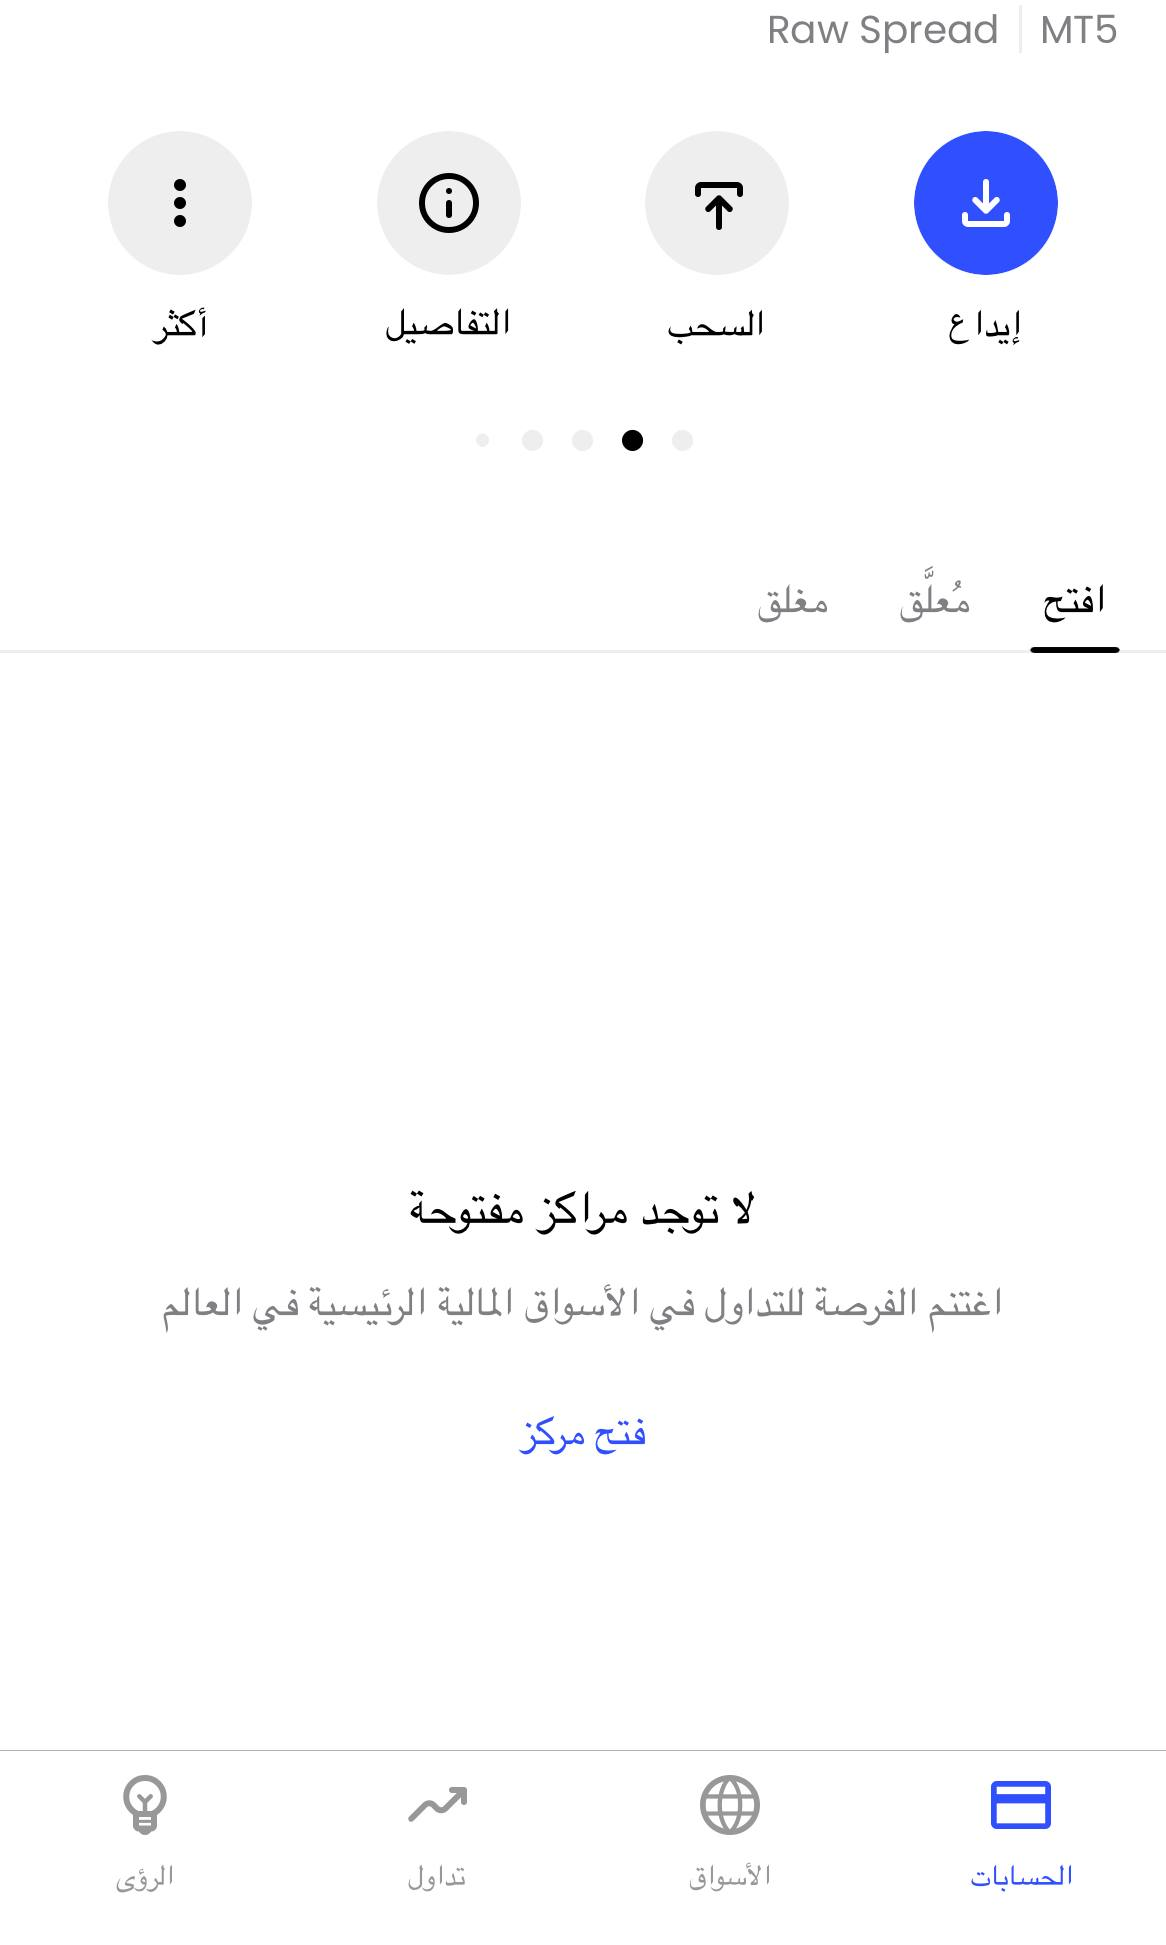
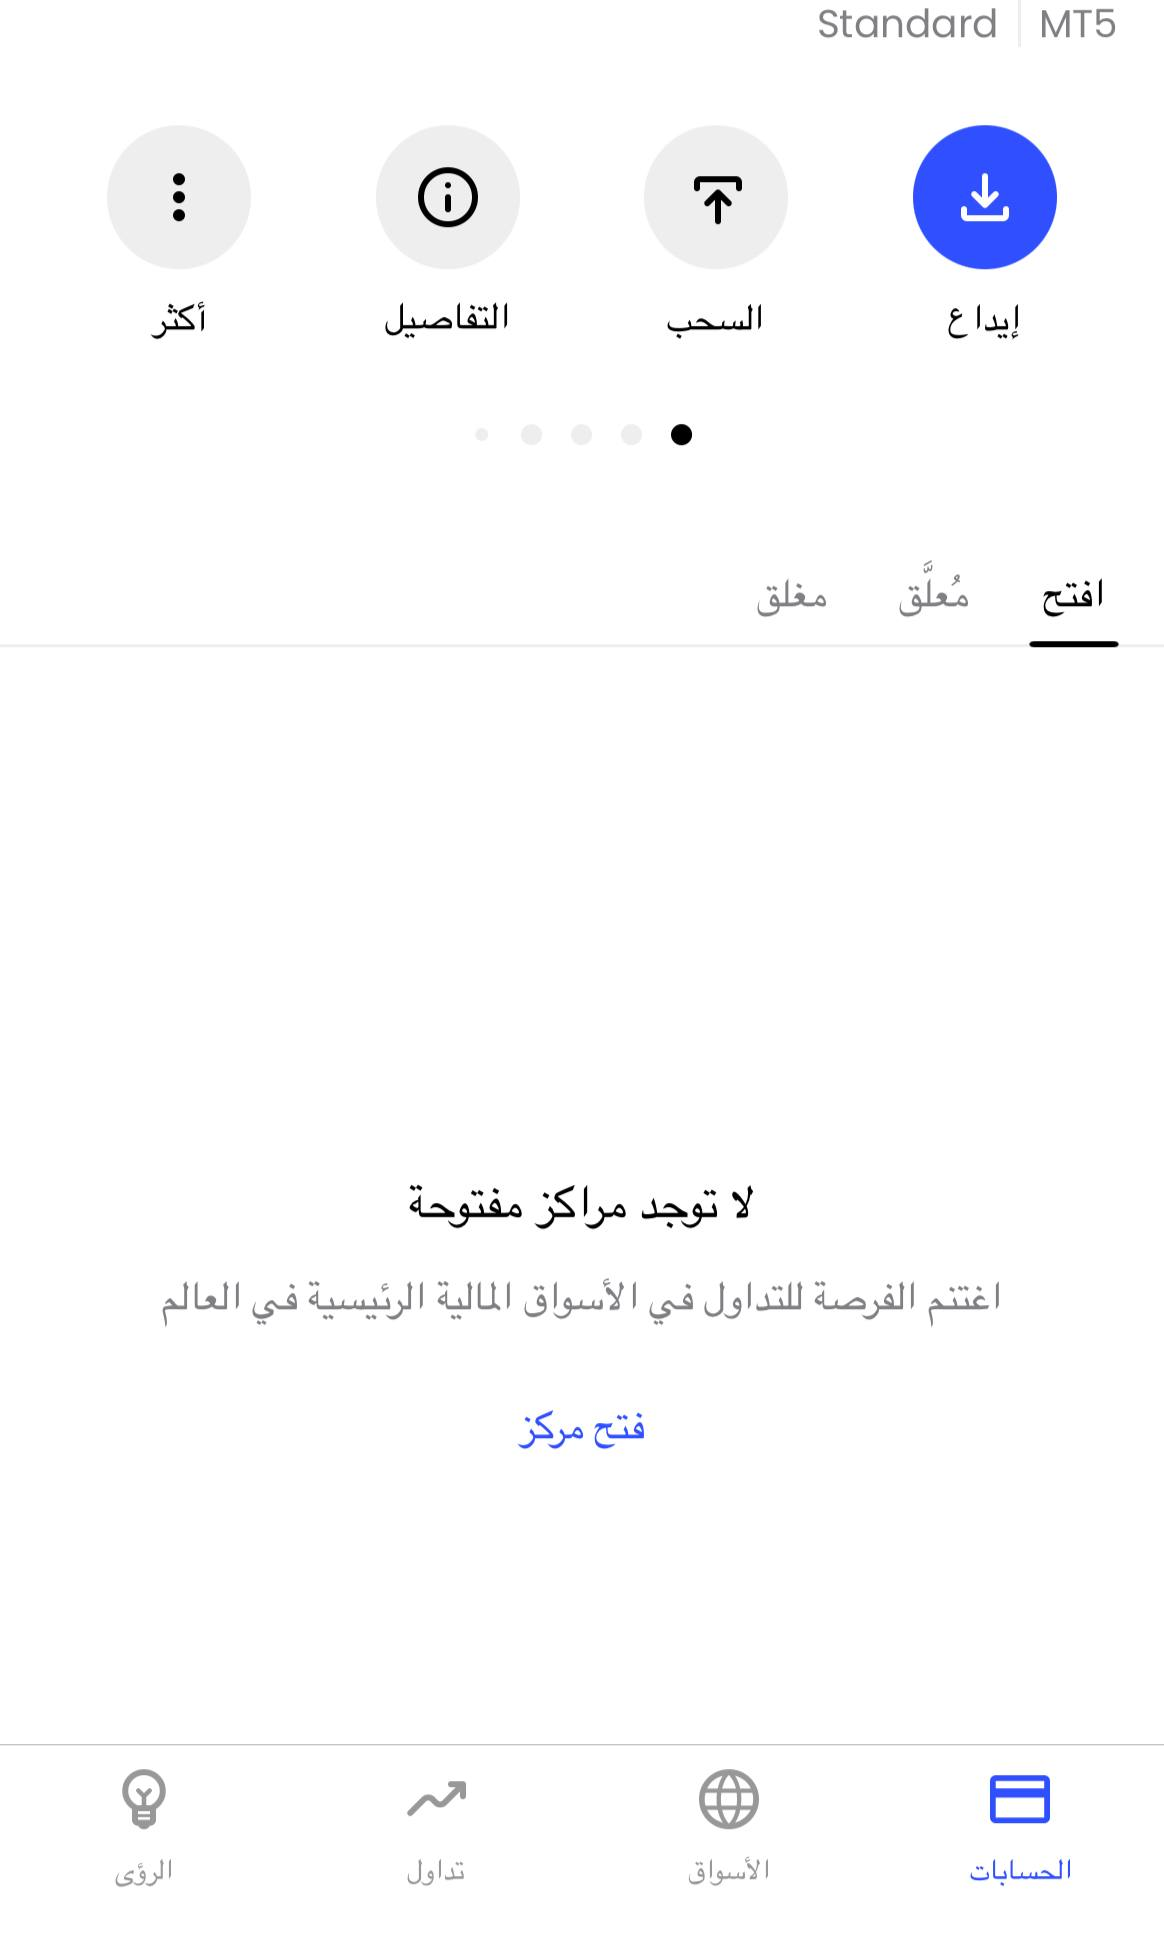
Add files via upload

diff --git a/style.css b/style.css
@@ -39,6 +39,13 @@ body {
   overflow: hidden;
 }
 
+/* Force white background on mobile viewports to prevent black status bars/safe areas */
+@media screen and (max-width: 479px) {
+  body {
+    background-color: #FFFFFF !important;
+  }
+}
+
 /* ==========================================================================
    2. APP LAYOUT CONTAINER (Mobile-first viewport wrapper)
    ========================================================================== */
@@ -107,8 +114,7 @@ button:active, a:active {
 
 .bottom-section-bg {
   width: 100%;
-  height: auto;
-  aspect-ratio: 1166 / 1945;
+  flex: 1; /* Stretch to fill remaining height, pushing bottom nav to the absolute bottom of the screen */
   background-image: url('السفلية.jpg');
   background-size: 100% 100%;
   background-position: center;

diff --git a/index.html b/index.html
@@ -8,7 +8,9 @@
   <meta name="apple-mobile-web-app-capable" content="yes">
   <meta name="apple-mobile-web-app-status-bar-style" content="default">
   <meta name="apple-mobile-web-app-title" content="JustMarkets">
-  <link rel="stylesheet" href="style.css?v=3.2">
+  <meta name="theme-color" content="#FFFFFF">
+  <meta name="msapplication-navbutton-color" content="#FFFFFF">
+  <link rel="stylesheet" href="style.css?v=3.3">
 </head>
 <body>
 
@@ -447,6 +449,6 @@
 
   </div>
 
-  <script src="app.js?v=3.2"></script>
+  <script src="app.js?v=3.3"></script>
 </body>
 </html>

diff --git a/app.js b/app.js
@@ -27,7 +27,7 @@ const DEFAULT_SETTINGS = {
 
 let appSettings = {};
 
-const CURRENT_VERSION = "3.2";
+const CURRENT_VERSION = "3.3";
 
 // Load settings from localStorage or fallback to defaults
 function loadAppSettings() {